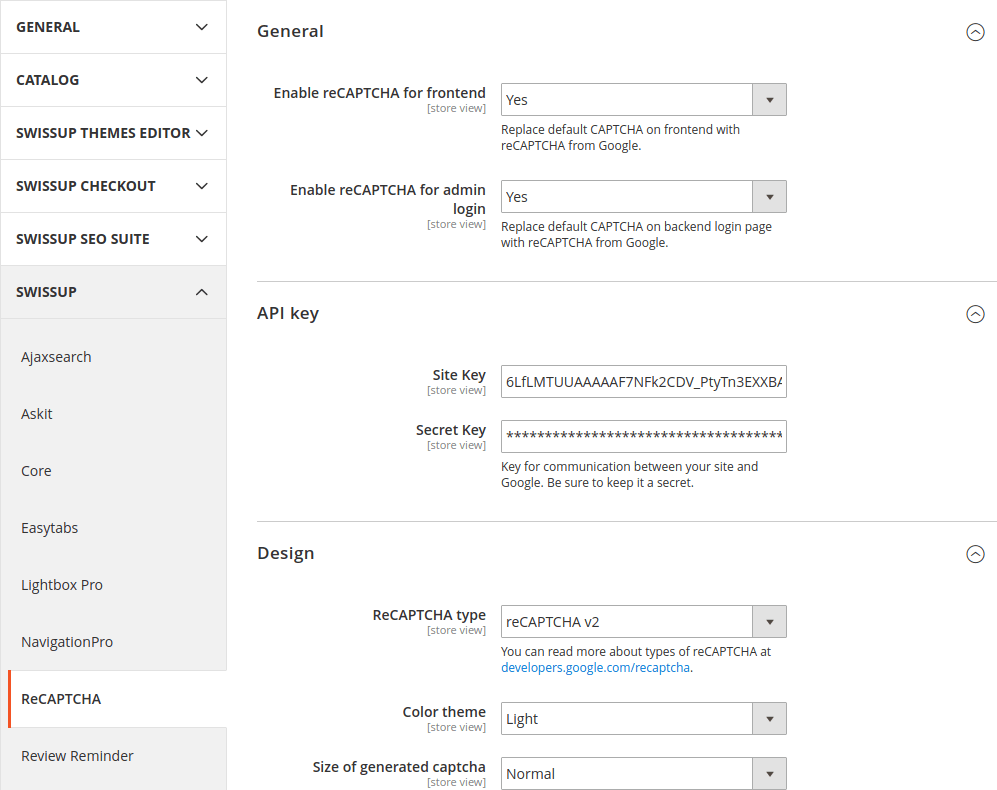
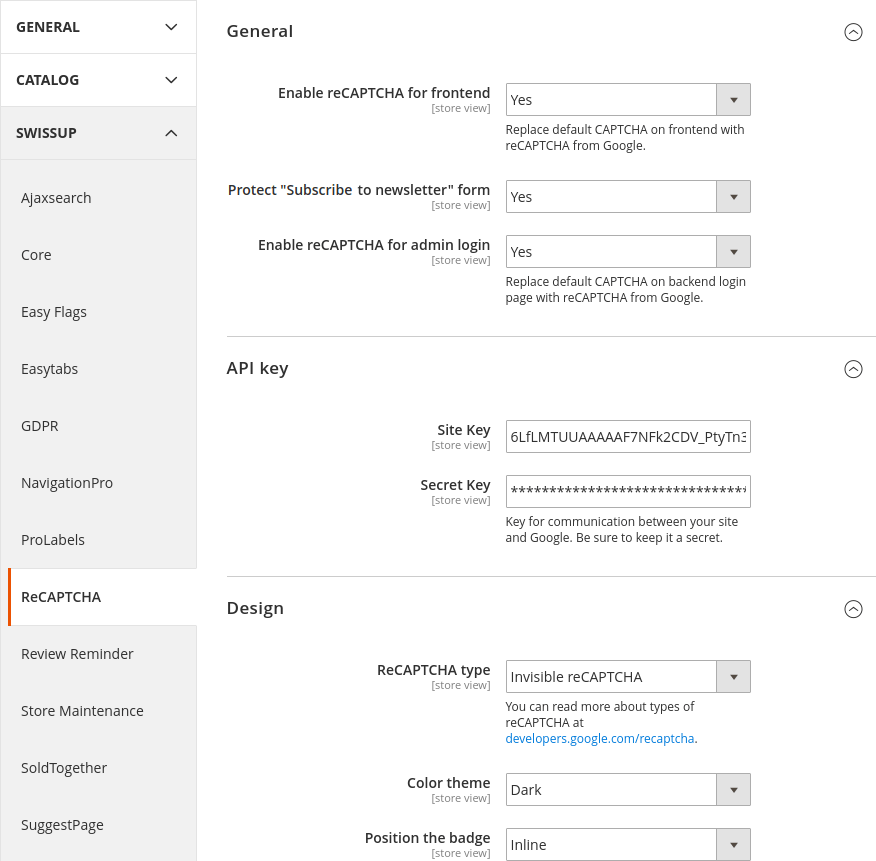
Recaptcha M2 - update.

diff --git a/m2/extensions/recaptcha/index.md b/m2/extensions/recaptcha/index.md
@@ -28,4 +28,6 @@ Our Magento extension replaces default Magento CAPTCHA with more secure Google r
     
     ![Invisible reCAPTCHA](https://developers.google.com/recaptcha/images/invisible_badge.png)
 
-**Notice:** current version of this extension does not provide security CAPTCHAs to any other form than your Magento instance. It just replaces default Magento CAPTCHA. So if your store has a disabled CAPTCHA, then you have to enable it first. Please, read Magento User Guide how to do that - [Security CAPTCHA](https://docs.magento.com/m2/ce/user_guide/stores/security-captcha.html).
+**Notice:** current version of this extension does not provide security CAPTCHAs to any other form than your Magento instance does. It just replaces default Magento CAPTCHA. So if your store has a disabled CAPTCHA, then you have to enable it first. Please, read Magento User Guide how to do that - [Security CAPTCHA](https://docs.magento.com/m2/ce/user_guide/stores/security-captcha.html).
+
+**Notice:** One exception is "Subscribe to Newsletter" form. With our module you can add reCAPTCHA to this form to secure it from bots. This feature is available since version 1.2.0. Check module configuration to enabale this feature.

diff --git a/m2/extensions/recaptcha/configuration.md b/m2/extensions/recaptcha/configuration.md
@@ -21,7 +21,9 @@ In section `API keys` you have to insert Site Key and Secret Key. Google creates
 
 > **Take a notice,** if you generate keys for Invisible reCAPTCHA then you can use them to show reCAPTCHA v2 also. But you can not use keys for reCAPTCHA v2 to show Invisible reCAPTCHA.
 
-In section `General` you can disable or enable reCAPTCHA. As you can see, you may enable recaptcha only for store frontend or only for magento backend.
+In section `General` you can disable or enable reCAPTCHA. As you can see, you may enable recaptcha only for store frontend or only for Magento backend.
+
+Some store owners are very upset when they get multiple newsletter subscribtions from bots and crawlers. That is why we implemented 'Protect "Subscribe to newsletter" form' option. It will add recaptcha near newsletter field. Initially recaptcha is hidden. And appears only when user starts input email address.
 
 In section `Design` you can select type of reCAPTCHA and choose its color or
 size. Size is available for reCAPTCHA v2 only.

diff --git a/m2/extensions/recaptcha/changelog.md b/m2/extensions/recaptcha/changelog.md
@@ -8,6 +8,12 @@ category: reCAPTCHA
 
 # Changelog
 
+### Version 1.2.0
+
+> May 13, 2019
+
+ -  New feature - protect "Subscribe to newsletter" with recaptcha.
+
 ### Version 1.1.3
 
 > Mar 29, 2019
